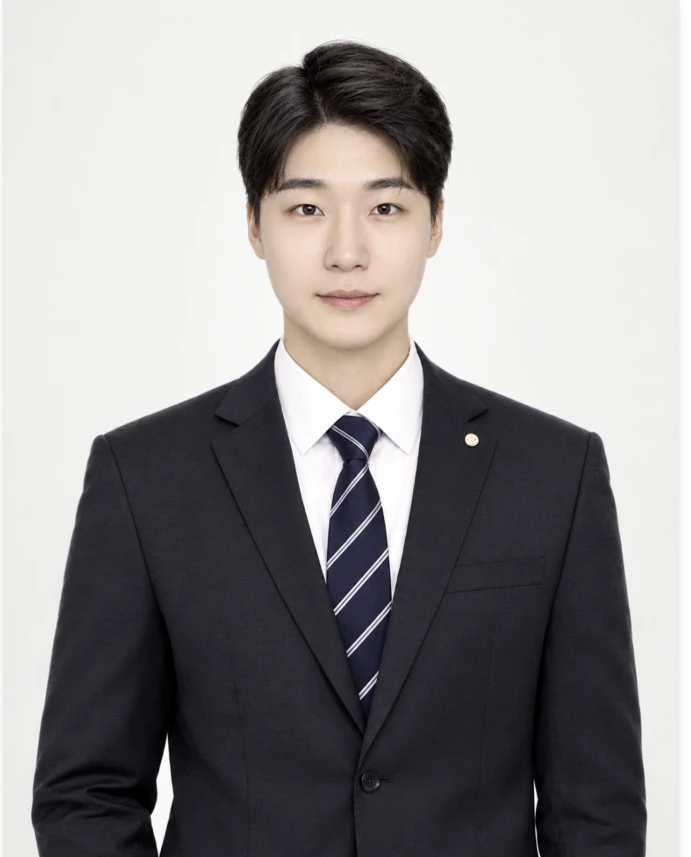
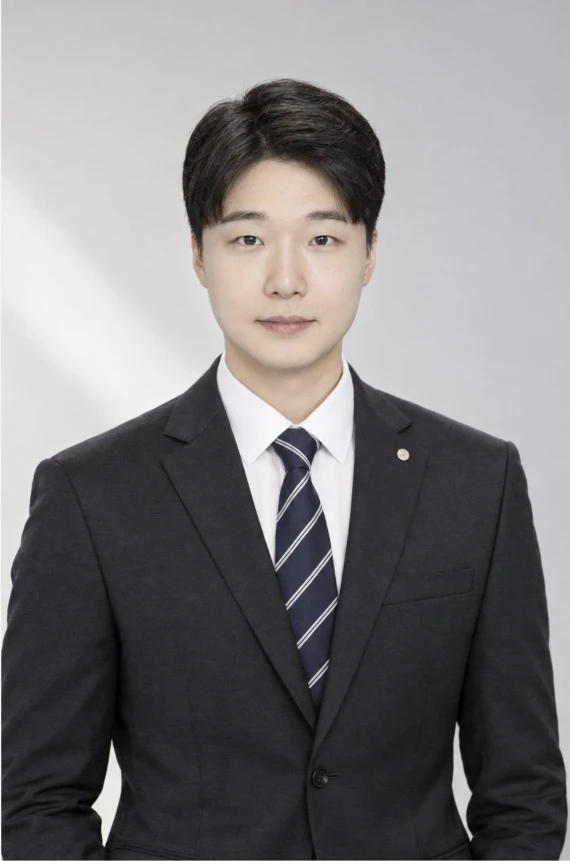
대표 세무사 프로필 사진 재교체
Claude-Session: https://claude.ai/code/session_01DDcgbWJ1CAsbrkjvni3SaG

diff --git a/home/index.html b/home/index.html
@@ -400,7 +400,7 @@
   <!-- 대표 소개 -->
   <section class="block" id="about">
     <div class="container about">
-      <figure class="portrait"><img src="img/ceo.webp" alt="양재혁 대표 세무사" width="691" height="857" loading="lazy"></figure>
+      <figure class="portrait"><img src="img/ceo.webp" alt="양재혁 대표 세무사" width="570" height="861" loading="lazy"></figure>
       <div>
         <div class="eyebrow" style="color:var(--primary)">대표 세무사</div>
         <h2>상담은 제가 직접 합니다.<br>사장님 이야기를 끝까지 듣겠습니다.</h2>
